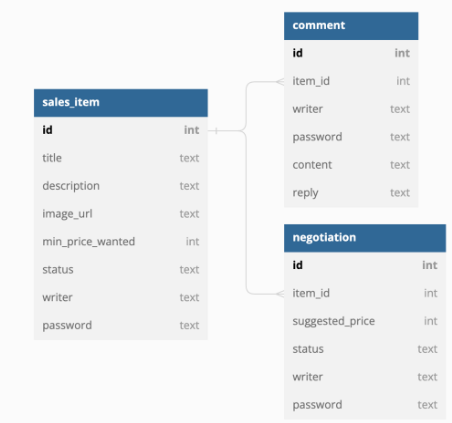
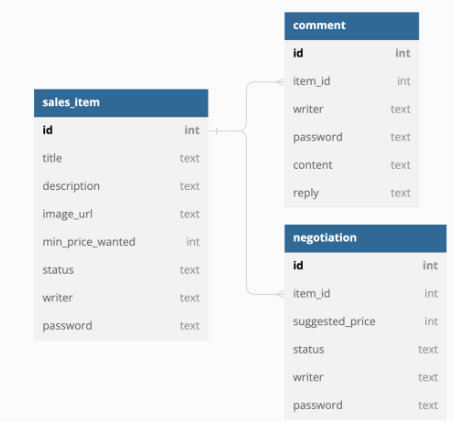
feat : README.md 수정

diff --git a/README.md b/README.md
@@ -67,7 +67,7 @@
     3. 구매 제안이 확정될 경우, 대상 물품의 상태는 **판매 완료**가 된다.
     4. 구매 제안이 확정될 경우, 확정되지 않은 다른 구매 제안의 상태는 모두 **거절**이 된다.
 ## ERD 설계
-![img.png](img.png)
+![스크린샷 2023-07-04 204745.png](..%2F..%2FPictures%2FScreenshots%2F%BD%BA%C5%A9%B8%B0%BC%A6%202023-07-04%20204745.png)![img.png](img.png)
 
 ## 구현
 **Day 1**
